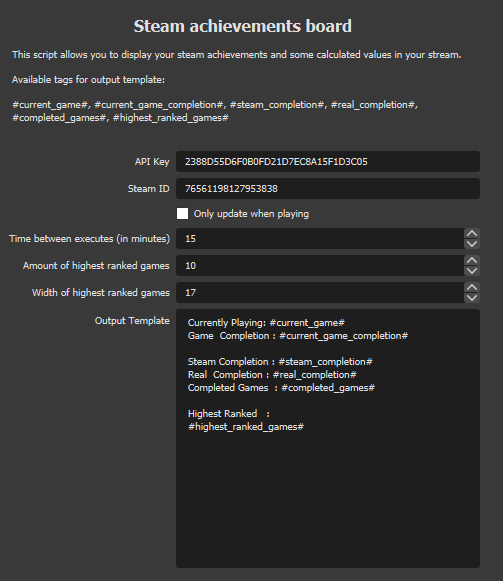
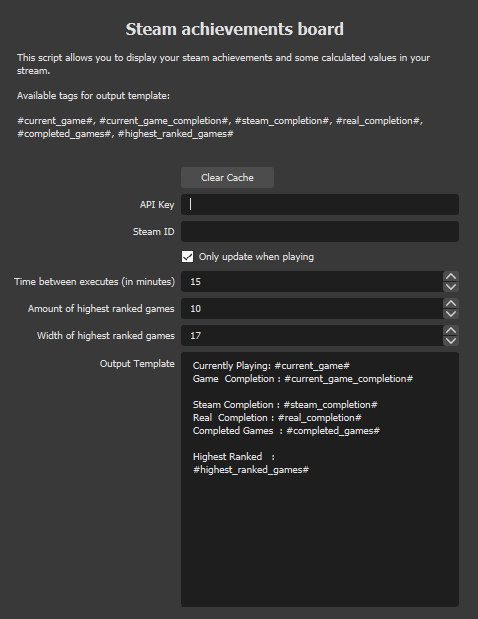
v2.1.0

Changed region(s): [[0.0293, 0.031, 0.9665, 0.9914]]

diff --git a/steam-achievements/steam_achievements.py b/steam-achievements/steam_achievements.py
@@ -1,5 +1,73 @@
-from os import remove
-import time, grequests, requests, logging, math
+import time, grequests, requests, logging, math, os.path
+
+def _get_games_without_achievements():
+    result = []
+
+    if os.path.isfile("games_without_achievements.txt"):
+        f = open("games_without_achievements.txt", "r")
+        lines = f.readlines()
+
+        for line in lines:
+            result.append(line.replace("\n", ""))
+            
+        f.close()
+
+    return result
+
+def _save_game_without_achievements(game_name):
+    if game_name not in _get_games_without_achievements():
+        f = open("games_without_achievements.txt", "a")
+        f.write(game_name + "\n")
+        f.close()
+
+def _filter_games_without_achievements(games):
+    result = []
+    games_without_achievements = _get_games_without_achievements()
+
+    for game in games:
+        # check if game has stats
+        if "has_community_visible_stats" not in game:
+            _save_game_without_achievements(game["name"])
+
+        if game["name"] not in games_without_achievements:
+            result.append(game)
+    
+    return result
+
+def _get_completed_games():
+    result = []
+
+    if os.path.isfile("completed_games.txt"):
+        f = open("completed_games.txt", "r")
+        lines = f.readlines()
+
+        for line in lines:
+            result.append(line.strip())
+            
+        f.close()
+
+    return result
+
+def _save_completed_game(game_name):
+    if game_name not in _get_completed_games():
+        f = open("completed_games.txt", "a")
+        f.write(game_name + "\n")
+        f.close()
+
+def _filter_completed_games(games):
+    result = {}
+    completed_games = _get_completed_games()
+
+    ready_for_removal = []
+    for i in range(0, len(games)):
+        if games[i]["name"] in completed_games:
+            ready_for_removal.append(i)
+            result[games[i]["name"]] = 100
+    
+    for index in ready_for_removal:
+        games.pop(index)
+
+    return result
 
 def _get_achieved_achievements(achievements):
     result = 0
@@ -24,9 +92,17 @@ def get_current_game(api_key, steam_id):
         return None
 
 def get_steam_achievements(api_key, steam_id):
+    game_achievements = {}
+
     start_time = time.time()
 
-    owned_games = requests.get("https://api.steampowered.com/IPlayerService/GetOwnedGames/v1/?key="+api_key+"&steamid="+steam_id+"&include_played_free_games=true").json()["response"]["games"]
+    owned_games = requests.get("https://api.steampowered.com/IPlayerService/GetOwnedGames/v1/?key="+api_key+"&steamid="+steam_id+"&include_played_free_games=true&include_appinfo=true").json()["response"]["games"]
+    
+    # remove games without achievements
+    owned_games = _filter_games_without_achievements(owned_games)
+
+    # remove completed games and add these to game_achievements
+    game_achievements = _filter_completed_games(owned_games)
 
     # create request urls
     urls = []
@@ -37,15 +113,21 @@ def get_steam_achievements(api_key, steam_id):
     rs = (grequests.get(u) for u in urls)
     responses = grequests.map(rs)
 
-    game_achievements = {}
-
     for response in responses:
         game_stats = response.json()["playerstats"]
 
         if "achievements" in game_stats:
             achieved_achievements = _get_achieved_achievements(game_stats["achievements"])
             total_achievements = _get_total_achievements(game_stats["achievements"])
-            game_achievements[game_stats["gameName"]] = _get_game_completion([achieved_achievements, total_achievements])
+            game_completion = _get_game_completion([achieved_achievements, total_achievements])
+
+            if game_completion == 100:
+                _save_completed_game(game_stats["gameName"])
+
+            game_achievements[game_stats["gameName"]] = game_completion
+
+        elif "gameName" in game_stats:
+            _save_game_without_achievements(game_stats["gameName"])
     
     logging.basicConfig(filename='app.log', filemode='a', format='%(asctime)s - %(message)s', level=logging.INFO)
     logging.info("Gathered achievement info for "+str(len(owned_games))+" games in "+str(time.time() - start_time)+" seconds")
@@ -54,8 +136,8 @@ def get_steam_achievements(api_key, steam_id):
 def get_steam_completion(game_achievements):
     # https://steamcommunity.com/sharedfiles/filedetails/?id=650166273
     
-    total_percentage = sum(game_completion for game_completion in game_achievements.values() if round(game_completion) is not 0)
-    started_games = sum(1 for game_completion in game_achievements.values() if round(game_completion) is not 0)
+    total_percentage = sum(game_completion for game_completion in game_achievements.values() if round(game_completion) != 0)
+    started_games = sum(1 for game_completion in game_achievements.values() if round(game_completion) != 0)
 
     return math.floor((total_percentage/started_games))
 
@@ -64,3 +146,5 @@ def get_real_completion(game_achievements):
     total_games = len(game_achievements)
 
     return round((total_percentage/total_games), 2)
+
+get_steam_achievements("2388D55D6F0B0FD21D7EC8A15F1D3C05", "76561198127953838")

diff --git a/steam-achievements/main_script.py b/steam-achievements/main_script.py
@@ -1,5 +1,5 @@
 import obspython as obs
-import steam_achievements, generate_txt_file
+import steam_achievements, generate_txt_file, os.path
 
 DEFAULT_OUTPUT_TEMPLATE = ("Currently Playing: #current_game#\n"
                            "Game  Completion : #current_game_completion#\n\n"
@@ -16,6 +16,13 @@ time = 10
 amount_of_games = 10
 width_of_games = 17
 output_template = DEFAULT_OUTPUT_TEMPLATE
+
+def clear_cache(props, prop):
+  if os.path.isfile("games_without_achievements.txt"):
+    os.remove("games_without_achievements.txt")
+
+  if os.path.isfile("completed_games.txt"):
+    os.remove("completed_games.txt")
 
 # Script
 def script():
@@ -53,6 +60,7 @@ def script_defaults(settings):
 # Called to display the properties GUI
 def script_properties():
   props = obs.obs_properties_create()
+  obs.obs_properties_add_button(props, "clear_cache", "Clear Cache", clear_cache)
   obs.obs_properties_add_text(props, "api_key", "API Key", obs.OBS_TEXT_DEFAULT)
   obs.obs_properties_add_text(props, "steam_id", "Steam ID", obs.OBS_TEXT_DEFAULT)
   obs.obs_properties_add_bool(props, "update_when_playing", "Only update when playing")

diff --git a/steam-achievements/generate_txt_file.py b/steam-achievements/generate_txt_file.py
@@ -19,7 +19,9 @@ def _generate_values(achievements, game, amount_of_games):
         else:
             break
     
-    return [current_game, current_game_completion, steam_completion, real_completion, completed_games, dict(list(achievements.items())[:amount_of_games])]
+    length = amount_of_games if len(achievements) >= amount_of_games else len(achievements)
+
+    return [current_game, current_game_completion, steam_completion, real_completion, completed_games, dict(list(achievements.items())[:length])]
 
 def _generate_strings(values, width_of_games):
     if values[0] == None:
